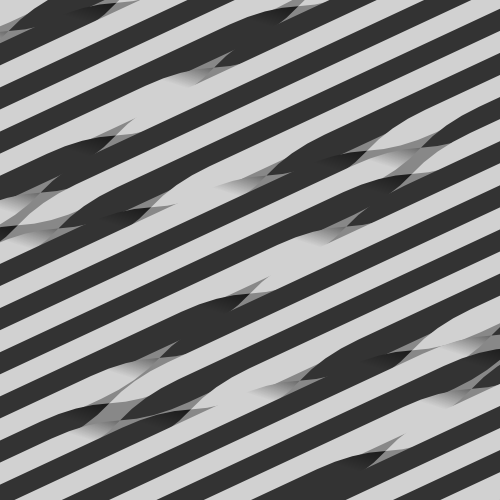
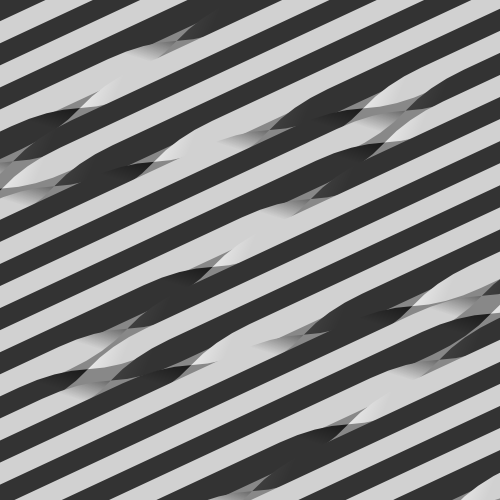
Right light side gradient

diff --git a/_posts/2015-02-04-ribbon.html b/_posts/2015-02-04-ribbon.html
@@ -15,7 +15,7 @@ var svg = d3.select("body").append("svg")
     .attr("transform", "rotate(" + [-25, width / 2, height / 2] + ")");
 
 var gradient = svg.selectAll("linearGradient")
-    .data([["#d1d1d1", "#444"], ["#333", "#111"]])
+    .data([["#d1d1d1", "#444"], ["#333", "#111"], ["#333", "#444"], ["#d1d1d1", "#eee"]])
     .enter().append("linearGradient")
     .attr("id", function(d, i) { return "gradient" + i; })
     .attr("x1", "0%")
@@ -40,7 +40,7 @@ g.selectAll("path")
     .enter().append("path")
     .attr("fill", function(d, i) {
         return i ? ((d % 2) ? "url(#gradient0)" : "url(#gradient1)")
-                 : ((d % 2) ? "#333" : "#d1d1d1");
+                 : ((d % 2) ? "url(#gradient2)" : "url(#gradient3)");
     })
     .attr("transform", function(d, i) {
         return i ? "" : "translate(500)scale(-1 1)";
